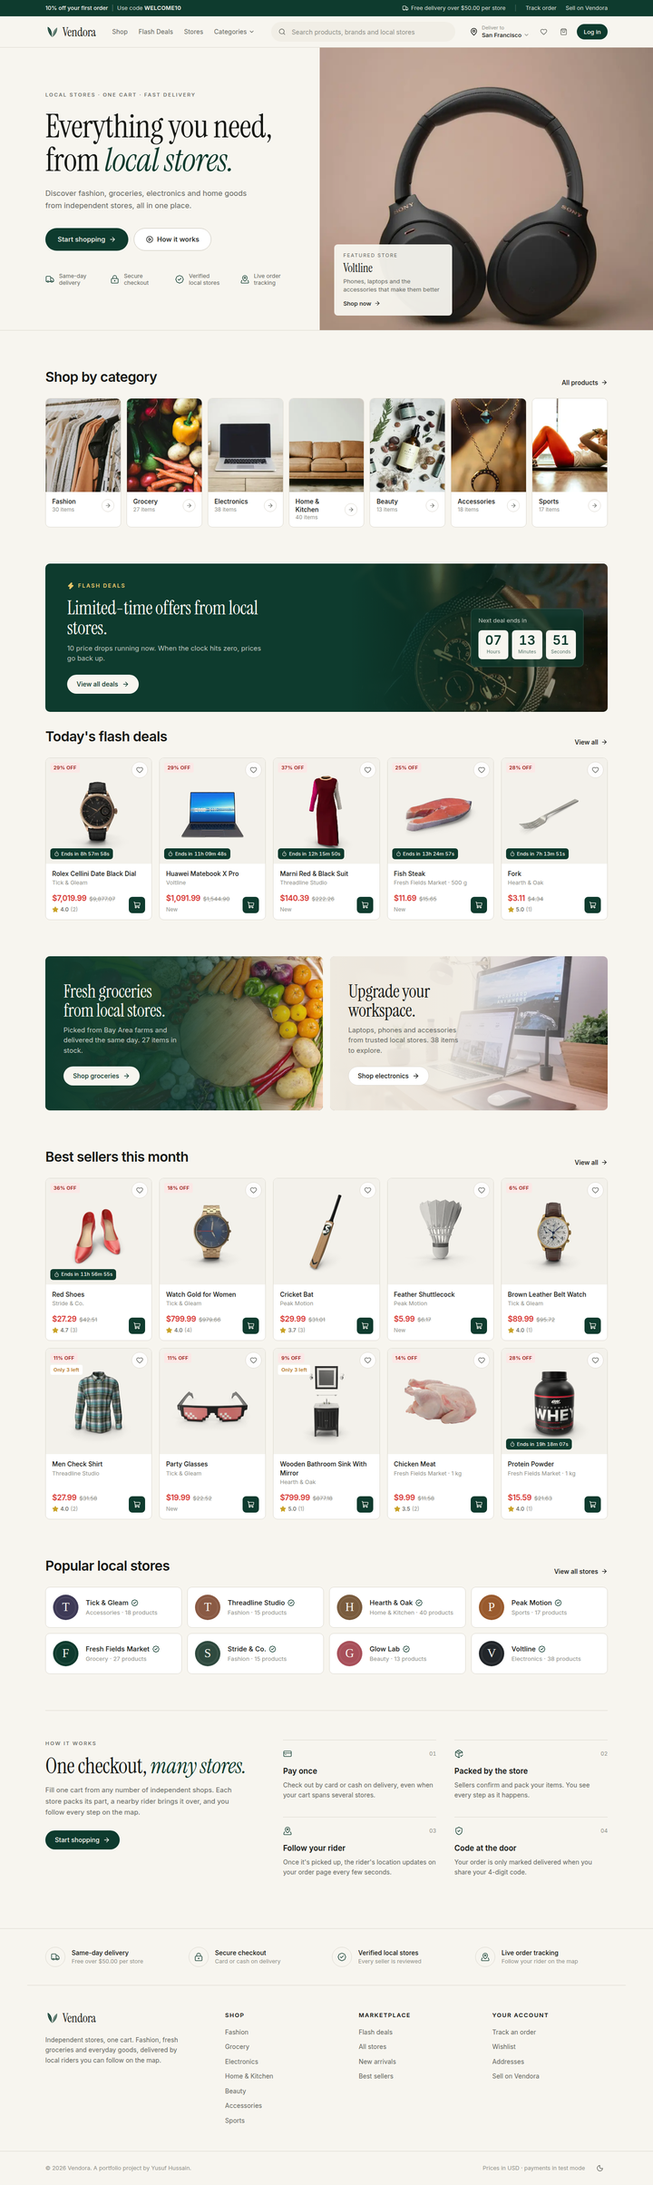
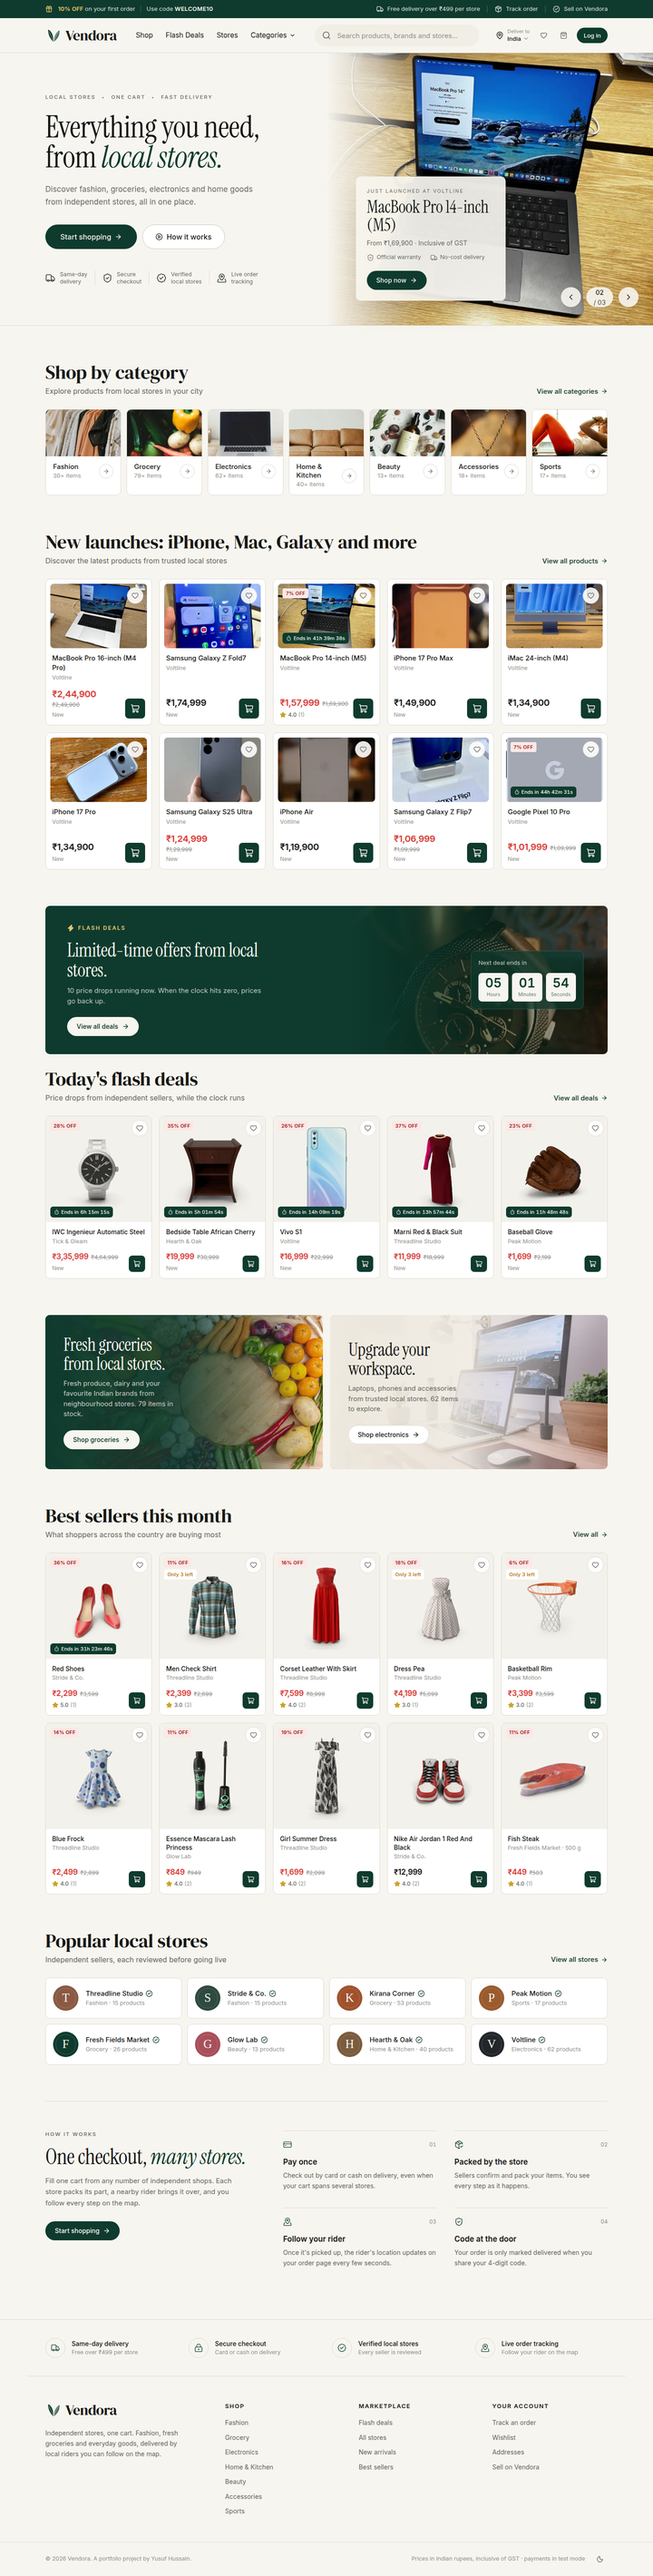
Update the README for India and the new homepage
Built-for-India section, catalog sources and credits, homepage and photography notes, and refreshed screenshots including the PIN-code address form and Kirana Corner.

diff --git a/README.md b/README.md
@@ -2,7 +2,7 @@
 
 **Independent stores. One cart. Live delivery.**
 
-Vendora is a multi-vendor marketplace for fashion, fresh groceries, electronics and home goods. Shoppers check out across many independent stores in a single cart and follow their rider live on a map. Sellers run their own storefronts with an AI listing assistant and flash deals, admins approve stores and dispatch riders, and riders hand over orders with a 4-digit door code.
+Vendora is a multi-vendor marketplace for India: fashion, fresh groceries and Indian pantry brands, the latest iPhone, Mac and Galaxy devices, and home goods, all priced in rupees. Shoppers check out across many independent stores in a single cart and follow their rider live on a map. Sellers run their own storefronts with an AI listing assistant and flash deals, admins approve stores and dispatch riders, and riders hand over orders with a 4-digit door code.
 
 ![Vendora home page](docs/screenshots/home.png)
 
@@ -40,13 +40,24 @@ Editorial luxury meets Swiss precision: a calm grid, generous spacing and real p
 | Warm grey | `#DDD9D0` | Borders |
 | Sale red | `#D83A36` | Sale prices and discount badges |
 
-- **Type:** Instrument Serif for headlines and campaigns, Inter for navigation, prices and controls
+- **Type:** Instrument Serif for the hero and campaigns, DM Serif Display for the wordmark and section titles, Inter for navigation, prices and controls
 - **Shape:** 6–10 px radii on cards and inputs, pill buttons, hairline borders, almost no shadow
 - **Motion:** slight image zoom on hover, colour transitions, nothing that loops; `prefers-reduced-motion` respected
+- **Homepage:** a three-slide hero (iPhone 17 Pro, MacBook Pro M5, Kirana Corner) with real prices from the catalog, keyboard controls and autoplay that pauses on hover and for reduced motion; serif section titles with subtitles
+- **Product photography:** new products have their backgrounds removed (rembg, ISNet) so cut-outs sit cleanly in the catalog; the original lifestyle photo follows in the gallery and leads on the New launches cards
 - **Header:** forest announcement bar (the live coupon and the real free-delivery rule), Categories dropdown, search, and a delivery-address picker that sets your default address for checkout
 - **Dark theme:** opt-in from the footer or dashboards, saved per browser and applied before first paint
 
 All tokens live in `src/app/globals.css`.
+
+## Built for India
+
+- **Rupees everywhere:** prices, delivery fees and coupons in ₹ with Indian digit grouping (₹1,34,900) and compact lakh figures on dashboards
+- **All states and union territories** in the address form, loaded live from the CountriesNow API (with a bundled fallback), plus city suggestions per state
+- **PIN code lookup:** type a 6-digit PIN and the city and state fill in from the India Post directory (api.postalpincode.in), with tappable locality suggestions
+- **Map placement by PIN:** addresses without a GPS pin are placed with OpenStreetMap Nominatim so the delivery map still works
+- **+91 mobile numbers** validated and formatted on the server; only Indian addresses are accepted
+- **Delivery rule:** free delivery on each store's items over ₹499, otherwise ₹49
 
 ## Features
 
@@ -172,7 +183,7 @@ Everything beyond the database and auth secret is optional. Features switch on w
 | Card payments | `STRIPE_SECRET_KEY`, `STRIPE_WEBHOOK_SECRET` | Cash on delivery only; the card option is hidden |
 | AI listing assistant | `AI_API_KEY`, `AI_BASE_URL`, `AI_MODEL` | The "Write with AI" button is hidden |
 | Google sign-in | `GOOGLE_CLIENT_ID`, `GOOGLE_CLIENT_SECRET` | Email and password only |
-| Currency | `NEXT_PUBLIC_CURRENCY` (ISO code, default `USD`) | US dollars |
+| Currency | `NEXT_PUBLIC_CURRENCY` (default `INR`) | Indian rupees |
 
 **Cloudinary**: Settings → Upload → Upload presets → *Add upload preset* → Signing mode **Unsigned**, folder `vendora`. Only the cloud name and preset name go in `.env`; the API secret is never needed.
 
@@ -182,11 +193,13 @@ Everything beyond the database and auth secret is optional. Features switch on w
 
 ## Demo data
 
-`npm run seed` builds a believable marketplace using the free [DummyJSON](https://dummyjson.com) product catalog:
+`npm run seed` builds a believable Indian marketplace:
 
-- 8 approved stores (with monogram logos and banner photography shipped in `public/`) and 1 pending application, ~180 products with real photos, sizes for clothes and shoes, pack sizes for groceries, and live flash deals
-- 12 shoppers with [randomuser.me](https://randomuser.me) portraits and San Francisco addresses, 3 riders, 4 coupons (one expired)
-- 100 orders spread over the last 30 days in every status, including one on its way with a rider on the map, plus reviews
+- 9 approved stores in **Bengaluru** (Indiranagar, Koramangala, Jayanagar, HSR Layout) and **Mumbai** (Andheri, Bandra, Lower Parel, Colaba), plus a pending application from Pune
+- **250+ products in rupees:** the current Apple line-up (iPhone 17 Pro Max, iPhone Air, iPhone 17, MacBook Pro M5, MacBook Air M4, iMac, Mac mini, iPads, AirPods, Apple Watch), Galaxy S25 Ultra, Z Fold7 and Z Flip7, Pixel 10 Pro, OnePlus 13 and PS5 Pro; Indian pantry brands such as Parle-G, Britannia, Amul, Tata, Maggi and Balaji with real pack photos; and the DummyJSON catalog for fashion, beauty, home and sports
+- Live flash deals, sizes for clothes and shoes, pack sizes for groceries
+- 12 shoppers and 3 riders with +91 numbers and real localities and PIN codes; live orders always pair a store and shopper in the same city, so the rider map makes sense
+- 120 orders over the last 30 days in every status, reviews, and 4 coupons in ₹ (one expired)
 
 The demo logins come from `.env` only:
 
@@ -227,6 +240,7 @@ When the demo email and password are set, the login page shows **Explore with a 
 | ![Flash deals](docs/screenshots/deals.png) | ![Store page](docs/screenshots/store.png) |
 | ![Cart](docs/screenshots/cart.png) | ![Live order tracking](docs/screenshots/tracking.png) |
 | ![Login](docs/screenshots/login.png) | ![Seller dashboard](docs/screenshots/seller.png) |
+| ![India address form with PIN lookup](docs/screenshots/address.png) | ![Kirana Corner store](docs/screenshots/store.png) |
 | ![Admin console (dark theme)](docs/screenshots/admin.png) | ![Rider app](docs/screenshots/rider.png) |
 
 ![Dark evening theme](docs/screenshots/home-dark.png)
@@ -242,7 +256,7 @@ When the demo email and password are set, the login page shows **Explore with a 
 
 ## Credits
 
-Product names, photos and review snippets come from [DummyJSON](https://dummyjson.com); lifestyle and store photography from [Unsplash](https://unsplash.com) (sources listed in `public/images/CREDITS.json`); portraits from [randomuser.me](https://randomuser.me); map data © [OpenStreetMap](https://www.openstreetmap.org/copyright) contributors. Built on ideas from five course projects, merged, rewritten and redesigned.
+Electronics photos come from [Wikimedia Commons](https://commons.wikimedia.org) (CC0 / CC BY / CC BY-SA, authors and licences in `public/products/CREDITS-electronics.json`); Indian grocery data and pack photos from [Open Food Facts](https://world.openfoodfacts.org) (ODbL / CC BY-SA, `public/products/CREDITS-grocery.json`); other product names, photos and review snippets from [DummyJSON](https://dummyjson.com); lifestyle and store photography from [Unsplash](https://unsplash.com) (sources listed in `public/images/CREDITS.json`); portraits from [randomuser.me](https://randomuser.me); map data © [OpenStreetMap](https://www.openstreetmap.org/copyright) contributors. Built on ideas from five course projects, merged, rewritten and redesigned.
 
 ## Author
 
